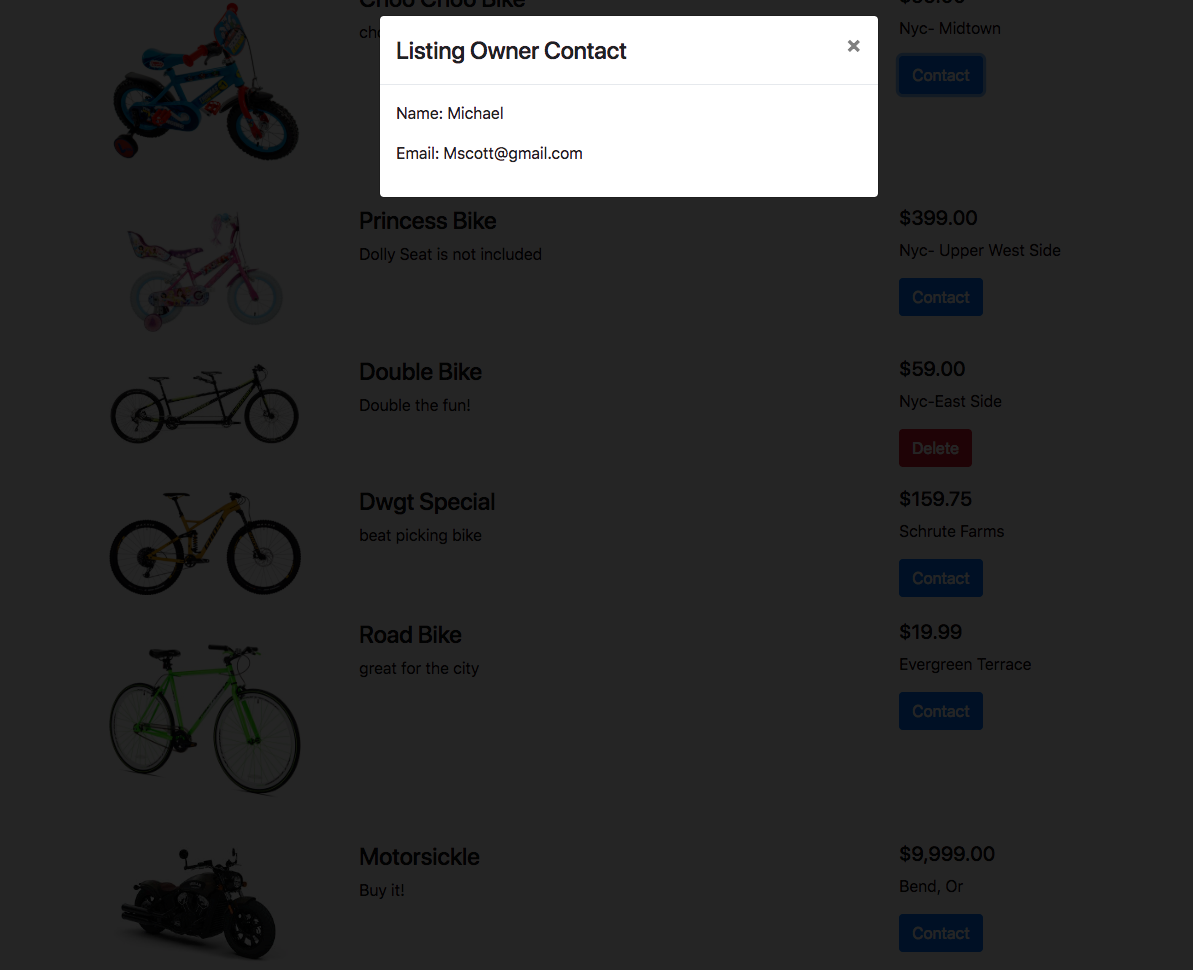
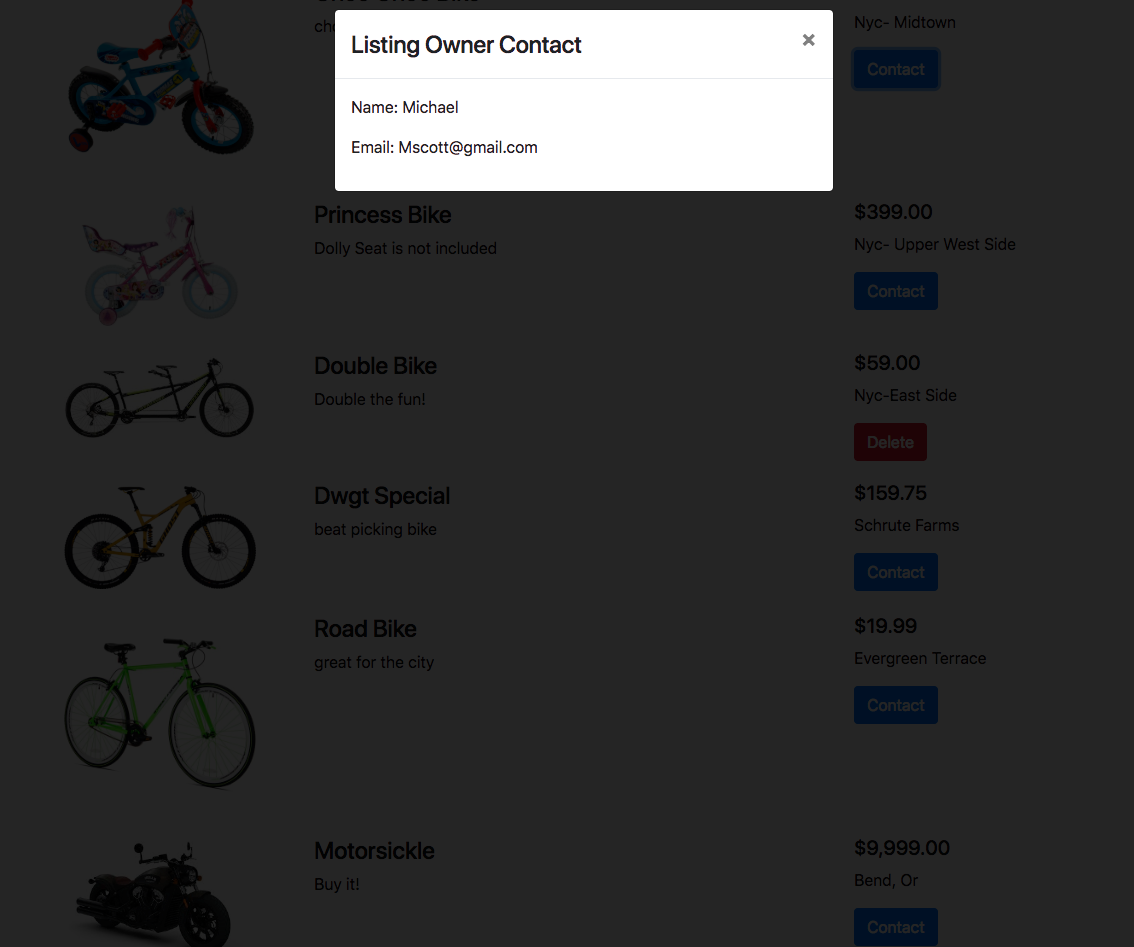
added another project

diff --git a/index.html b/index.html
@@ -35,6 +35,10 @@
                     <a href="#section-tours" class="navigation__link">
                         <span>03</span>Contact</a>
                 </li>
+                <li class="navigation__item">
+                    <a href="#section-tours" class="navigation__link">
+                        <span>04</span>Social Media</a>
+                </li>
 
 
             </ul>
@@ -103,7 +107,7 @@
                             </div>
                             <div class="card__details">
                                 <ul>
-                                    <li>Full Mean Stack App</li>
+                                    <li>Full MEAN stack app</li>
                                     <li>Buy and Sell Bikes</li>
                                     <li>Login/Registration</li>
 
@@ -132,7 +136,7 @@
                             <div class="card__details">
                                 <ul>
                                     <li>Full MEAN stack app</li>
-                                    <li>Manages team Roster</li>
+                                    <li>Manages team roster</li>
                                     <li>Add/Remove players</li>
                                     <li>Update status of players</li>
 
@@ -155,13 +159,15 @@
                 <div class="col-1-of-3">
                     <div class="card">
                         <div class="card__side card__side--front ">
-                            <div class="card__picture card__picture--2">
+                            <div class="card__picture card__picture--3">
                                 &nbsp;
                             </div>
                             <div class="card__details">
                                 <ul>
-                                    <li>stuff here</li>
-                                    <li>more stuff here</li>
+                                    <li>Full MEAN stack app</li>
+                                    <li>Commerce App to keep track of your inventory</li>
+                                    <li>Add/Remove products</li>
+                                    <li>Update/Delete products</li>
 
                                 </ul>
                             </div>
@@ -169,9 +175,9 @@
                         <div class="card__side card__side--back card__side--back-3">
                             <div class="card__cta">
                                 <div class="card__price-box">
-                                    <img src="img/softball2.png" alt="softball">
+                                    <img src="img/commerce2.png" alt="commerce">
                                 </div>
-                                <a href="#popup2" class="btn btn--green">See More </a>
+                                <a href="#popup3" class="btn btn--green">See More </a>
                             </div>
                         </div>
                     </div>
@@ -187,6 +193,7 @@
 
     </main>
 
+    <!-- pop up content  -->
     <div class="popup" id="popup1">
         <div class="popup__content">
             <div class="popup__left">
@@ -209,18 +216,37 @@
     <div class="popup" id="popup2">
         <div class="popup__content">
             <div class="popup__left">
-                <img src="img/softball3.png" alt="bikes" class="popup__img">
-                <img src="img/softball4.png" alt="bikes" class="popup__img">
+                <img src="img/softball3.png" alt="softballs" class="popup__img">
+                <img src="img/softball4.png" alt="softballs" class="popup__img">
             </div>
             <div class="popup__right">
                 <a href="#section-tours" class="popup__close"> &times;</a>
                 <h2 class="heading-secondary u-margin-bottom-small">Softball Team App</h2>
-                <h3 class="heading-tertiary u-margin-bottom-small">A Full Mean Stack app that manages your roster.</h3>
+                <h3 class="heading-tertiary u-margin-bottom-small">A Full MEAN Stack app that manages your roster.</h3>
                 <ul class="popup__text">
                     <li>Deployed using amazon aws @ 18.223.124.11 </li>
                     <li>Code is also available on Github here:</li>
                 </ul>
                 <a href="https://github.com/dkang417/softballManager" target="_blank" class="btn btn--green"> Git it </a>
+            </div>
+        </div>
+    </div>
+
+    <div class="popup" id="popup3">
+        <div class="popup__content">
+            <div class="popup__left">
+                <img src="img/commerce3.png" alt="commerce" class="popup__img">
+                <img src="img/commerce4.png" alt="commerce" class="popup__img">
+            </div>
+            <div class="popup__right">
+                <a href="#section-tours" class="popup__close"> &times;</a>
+                <h2 class="heading-secondary u-margin-bottom-small">Commerce App</h2>
+                <h3 class="heading-tertiary u-margin-bottom-small">A Full MEAN Stack app that manages your inventory.</h3>
+                <ul class="popup__text">
+                    <li>Create Read Update Destroy all your products </li>
+                    <li>Code is also available on Github here:</li>
+                </ul>
+                <a href="https://github.com/dkang417/commerce" target="_blank" class="btn btn--green"> Git it </a>
             </div>
         </div>
     </div>

diff --git a/css/style.css b/css/style.css
@@ -586,6 +586,11 @@ body {
         .composition__photo--p1 {
           top: 0;
           transform: scale(1.01) translateY(-0.4rem); } }
+    .composition__photo:hover {
+      border-radius: 20px;
+      transform: scale(1.01) translateY(-0.4rem);
+      box-shadow: 0 1.5rem 4rem rgba(0, 0, 0, 0.5);
+      z-index: 20; }
 
 .card {
   perspective: 150rem;
@@ -627,12 +632,14 @@ body {
       background-image: url("../../img/bikes.png"); }
     .card__picture--2 {
       background-image: url("../../img/softball.png"); }
+    .card__picture--3 {
+      background-image: url("../../img/commerce.png"); }
   .card__details {
     padding: 1rem;
     margin-left: .5rem; }
     .card__details img {
-      width: 280px;
-      height: auto; }
+      width: auto;
+      height: 300px; }
     .card__details ul {
       list-style: none;
       width: 80%;
@@ -655,14 +662,8 @@ body {
     color: #f7f7f7;
     margin-bottom: 8rem; }
   .card__price-box img {
-    width: auto;
-    height: 250px; }
-  .card__price-only {
-    font-size: 1.4rem;
-    text-transform: uppercase; }
-  .card__price-value {
-    font-size: 6rem;
-    font-weight: 100; }
+    width: 260px;
+    height: auto; }
   @media (max-width: 56.25em) {
     .card {
       height: auto;
@@ -727,8 +728,7 @@ body {
     padding: 3rem 5rem; }
   .popup__img {
     display: block;
-    width: 100%;
-    margin-top: 2em; }
+    width: 100%; }
   .popup__text {
     font-size: 1.4rem;
     margin-bottom: 4rem;

diff --git a/sass/components/_card.scss b/sass/components/_card.scss
@@ -59,8 +59,12 @@
         &--2 {
             background-image: url('../../img/softball.png');
         }
-    }
+       
+        &--3 {
+            background-image: url('../../img/commerce.png');
+        }
 
+    }
 
     &__details {
         padding: 1rem;
@@ -68,8 +72,8 @@
 
 // image of project 
         img {
-            width: 280px;
-            height: auto;
+            width: auto;
+            height: 300px;
            
         }
         ul {
@@ -77,7 +81,6 @@
             width: 80%;
             margin: 0 auto;
             
-
             li {
                 text-align: center;
                 font-size: 1.5rem;
@@ -109,23 +112,14 @@
     // back of card picture 
 
     &__price-box img {
-        width: auto;
-        height: 250px;
+        width: 260px;
+        height: auto;
        
     }
 
     
     
 
-    &__price-only {
-        font-size: 1.4rem;
-        text-transform: uppercase;
-    }
-
-    &__price-value {
-        font-size: 6rem;
-        font-weight: 100;
-    }
 
 
 

diff --git a/sass/components/_composition.scss b/sass/components/_composition.scss
@@ -28,13 +28,12 @@
         }
 
      
-        // &:hover {
-        //     outline: .5rem solid $color-primary;
-        //     border-radius: 20px;
-        //     transform: scale(1.01) translateY(-.4rem);
-        //     box-shadow: 0 1.5rem 4rem rgba($color-black, .5);
-        //     z-index: 20;
-        // }
+        &:hover {
+            border-radius: 20px;
+            transform: scale(1.01) translateY(-.4rem);
+            box-shadow: 0 1.5rem 4rem rgba($color-black, .5);
+            z-index: 20;
+        }
     }
 
 }

diff --git a/sass/components/_popup.scss b/sass/components/_popup.scss
@@ -45,7 +45,7 @@
     &__img {
         display: block;
         width: 100%;
-        margin-top: 2em;
+        // margin-top: 2em;
     }
     &__text {
         font-size: 1.4rem;

diff --git a/sass/base/typography.scss b/sass/base/typography.scss
@@ -59,6 +59,7 @@ body {
     letter-spacing: 2px;
     color: transparent;
     transition: all .2s;
+    
 
     @include respond(tab-port) {
         font-size: 3rem;
